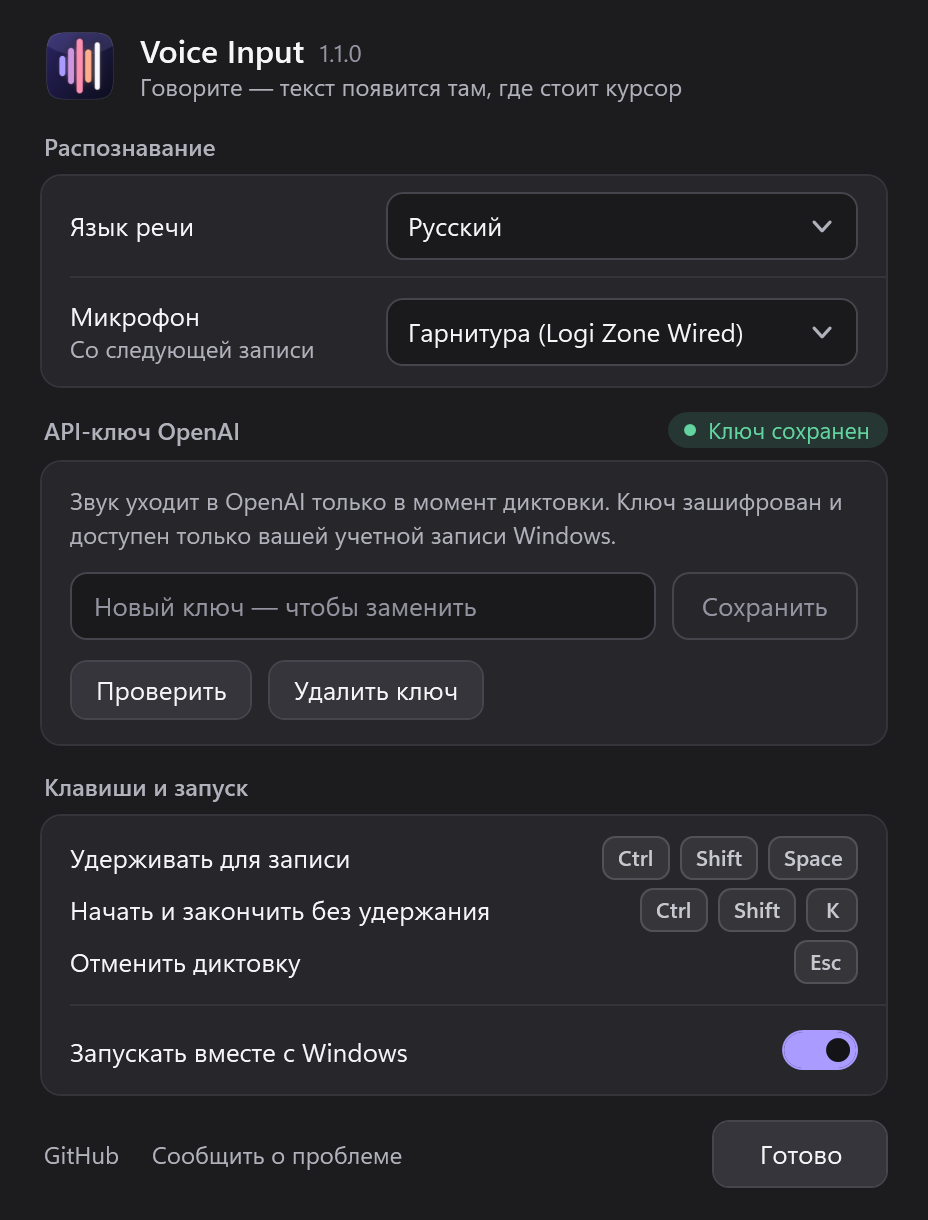
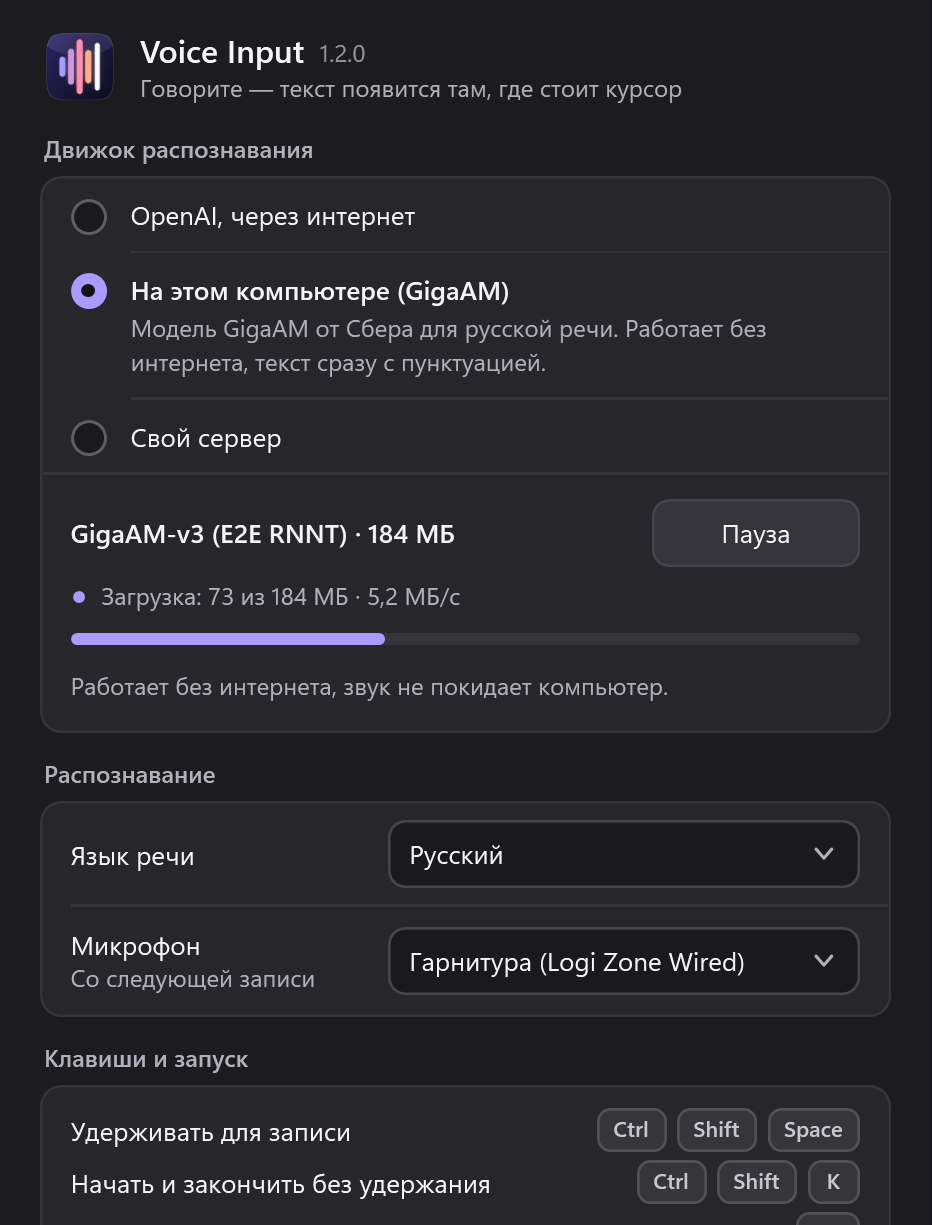
design: Voice Input 1.2 settings window in the generator source, fade below the recognition card

diff --git a/design/generator/build.py b/design/generator/build.py
@@ -131,6 +131,40 @@ def window(src: str, left: float, top: float, width: float, z: int = 1) -> str:
             f'<img src="{furl(SRC / src)}"></div>')
 
 
+FADE_PAD = 100                              # место для собственной тени окна (0 30px 60px) внутри слоя с маской
+WINDOW_RE = re.compile(r'<div class="window" style="left:(?P<left>-?[\d.]+)px;top:(?P<top>-?[\d.]+)px;'
+                       r'width:(?P<width>[\d.]+)px;z-index:(?P<z>\d+)"><img src="[^"]*/(?P<src>[^"/]+)"></div>')
+
+
+def fade_bottom(win: str, fade_from_px: float) -> str:
+    """Окно выше рамки, которую ему даёт зона, показывается верхней частью: ниже fade_from_px (пиксели
+    снимка) окно вместе с тенью плавно исчезает к нижнему краю снимка. win — разметка window(...).
+    Так показано окно настроек Voice Input 1.2: sources/voice-settings.png — верх снимка UiPreview
+    (docs/assets/product/settings.png, 200 %) в пропорциях окна 1.1, 238 × 313 зоны; растворяется ниже
+    блока «Распознавание». Если разметка уже с маской (её так же оборачивает tools/render-banners.py
+    репозитория voice-input), она остаётся как есть, чтобы маска не легла дважды."""
+    if "mask-image" in win:
+        return win
+    m = WINDOW_RE.fullmatch(win)
+    if not m:
+        raise ValueError("fade_bottom ждёт разметку window(...)")
+    left, top, width = (float(m[k]) for k in ("left", "top", "width"))
+    with Image.open(SRC / m["src"]) as im:
+        width_px, height_px = im.size
+    if fade_from_px >= height_px:
+        raise ValueError(f"{m['src']}: растворение ниже края снимка")
+    height = width * height_px / width_px
+    solid = FADE_PAD + width * fade_from_px / width_px
+    gone = FADE_PAD + height
+    stops = ", ".join(
+        f"rgba(0,0,0,{(1 - t) ** 1.6:.3f}) {solid + (gone - solid) * t:.1f}px" for t in (0, .25, .5, .75, 1))
+    mask = f"linear-gradient(to bottom, #000 0px, {stops})"
+    inner = window(m["src"], FADE_PAD, FADE_PAD, int(width) if width.is_integer() else width, int(m["z"]))
+    return (f'<div style="position:absolute;left:{left - FADE_PAD:g}px;top:{top - FADE_PAD:g}px;'
+            f'width:{width + 2 * FADE_PAD:g}px;height:{height + 2 * FADE_PAD:.1f}px;z-index:{m["z"]};'
+            f'-webkit-mask-image:{mask};mask-image:{mask}">' + inner + '</div>')
+
+
 def tg_bubble(c: dict, kb: bool) -> str:
     q = "".join(f"<p>• {e(x)}</p>" for x in c["questions"])
     out = f"""
@@ -230,8 +264,9 @@ def vis(repo: str, card: bool = False) -> str:
                 + pill("voice-processing.png", 100, 162, 460, 3)
                 + pill("voice-success.png", 170, 272, 460, 3))
     elif repo == "voice-input":
-        # три состояния оверлея слева, окно настроек справа; ничего не перекрывается
-        body = (window("voice-settings.png", 362, 12, 238, 1)
+        # три состояния оверлея слева, окно настроек справа; ничего не перекрывается.
+        # Окно 1.2 выше рамки: видны карточка движка и блок «Распознавание» (до 1014 px снимка), ниже — растворение
+        body = (fade_bottom(window("voice-settings.png", 362, 12, 238, 1), 1030)
                 + pill("voice-listening.png", 0, 74, 336, 3)
                 + pill("voice-processing.png", 0, 162, 336, 3)
                 + pill("voice-success.png", 0, 250, 336, 3))
